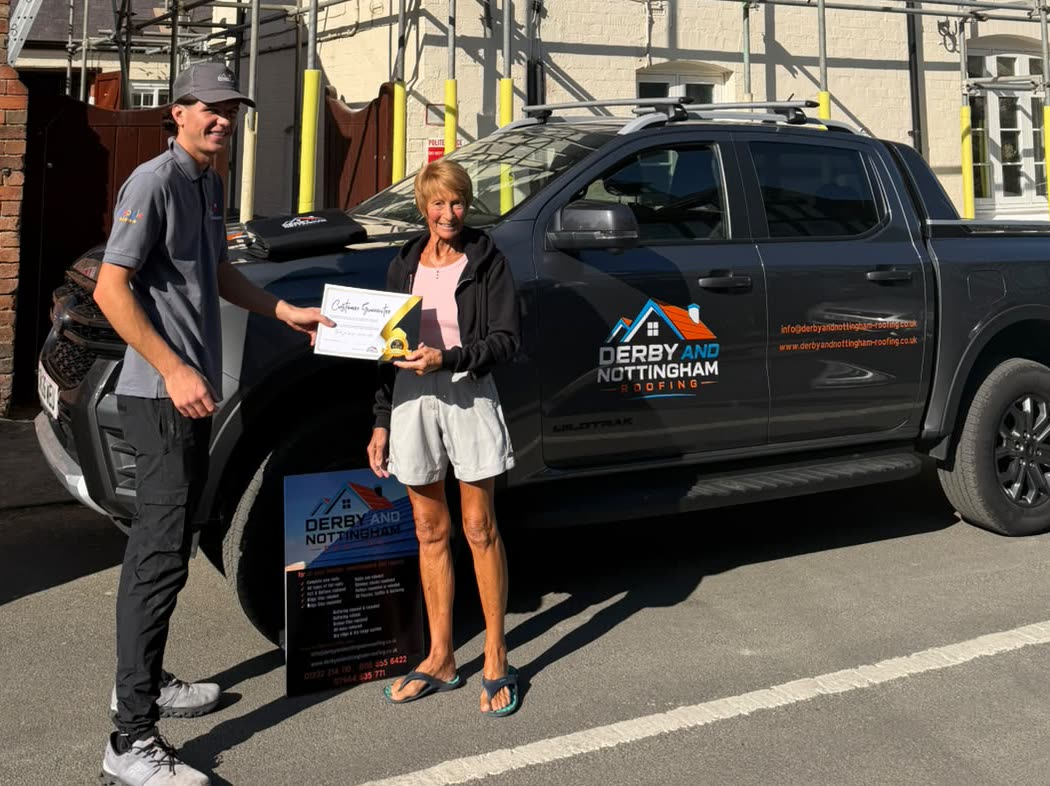
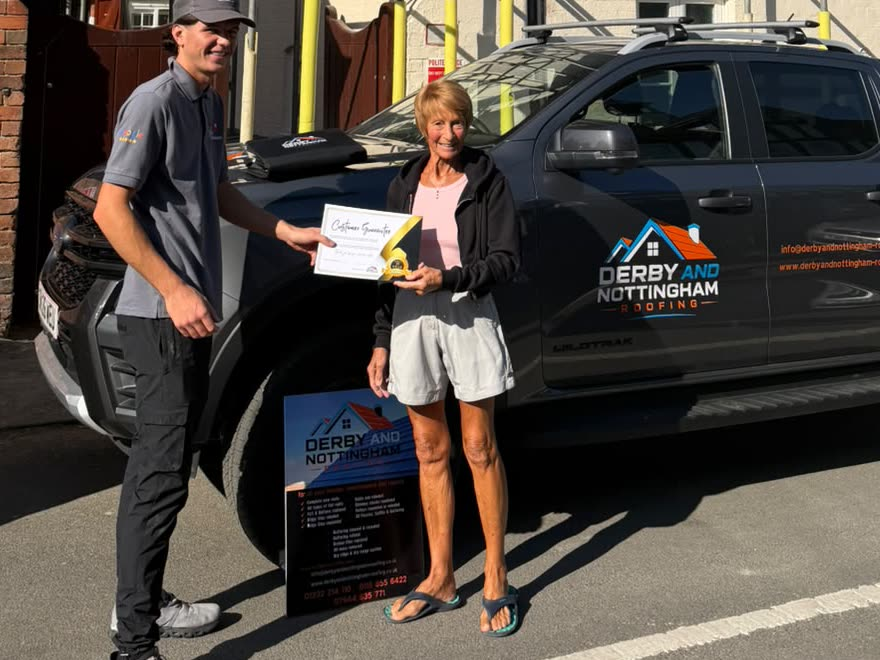
Inset the customer-guarantee photo into the team shot's bottom-right corner
Covers a passing car's number plate that ran to the bottom edge of the team
photo, and adds a second trust image. Flush to the corner rather than floated
so nothing shows beneath it. Re-cropped guarantee-2 tighter on the customer
and certificate so it reads at inset size.

The inset img needs a (0,2,1) selector: .about-photo img sits later in the
stylesheet with min-height:420px and would otherwise win on source order and
crop the inset by a third.

diff --git a/index.html b/index.html
@@ -225,7 +225,7 @@ height="0" width="0" style="display:none;visibility:hidden"></iframe></noscript>
     <div class="center" style="margin-top:24px"><a class="btn btn-dark" href="reviews.html">Read more reviews <svg viewBox="0 0 24 24" fill="none" stroke="currentColor" stroke-width="2.2" stroke-linecap="round" stroke-linejoin="round"><line x1="5" y1="12" x2="19" y2="12"/><polyline points="12 5 19 12 12 19"/></svg></a></div>
   </div></div></section>
 <section class="section about" id="about"><div class="wrap about-grid">
-  <div class="about-photo"><img src="assets/img/team.jpg" alt="The Derby &amp; Nottingham Roofing team on site during a full re-roof" loading="lazy"></div>
+  <div class="about-photo"><img src="assets/img/team.jpg" alt="The Derby &amp; Nottingham Roofing team on site during a full re-roof" loading="lazy"><div class="photo-inset"><img src="assets/img/guarantee-2.jpg" alt="A customer receiving her written workmanship guarantee from Derby &amp; Nottingham Roofing" loading="lazy"></div></div>
   <div class="about-body">
     <span class="eyebrow">Meet the team</span><h2>The roofers behind the work</h2>
     <p>Derby & Nottingham Roofing is a family-run roofing company with over 40 years' experience and a team of 15. We've grown by word of mouth — one happy customer at a time — and we treat every roof like it's our own.</p>

diff --git a/assets/styles.css b/assets/styles.css
@@ -262,7 +262,12 @@ header.nav.solid{background:var(--ink)}
 /* ---------- about ---------- */
 .about{background:var(--paper)}
 .about-grid{display:grid;grid-template-columns:.92fr 1.08fr;gap:48px;align-items:center}
-.about-photo{border-radius:var(--r);overflow:hidden;box-shadow:var(--shadow)}
+.about-photo{position:relative;border-radius:var(--r);overflow:hidden;box-shadow:var(--shadow)}
+/* Second photo tucked into the bottom-right corner of the main one. Sits flush
+   to the corner (not floated) so it fully covers a passing car's number plate
+   that runs to the very bottom edge of the team shot. */
+.photo-inset{position:absolute;right:0;bottom:0;width:45%;aspect-ratio:4/3;overflow:hidden;border-top:4px solid #fff;border-left:4px solid #fff;border-top-left-radius:14px;box-shadow:-6px -6px 18px rgba(0,0,0,.22)}
+.about-photo .photo-inset img{width:100%;height:100%;object-fit:cover;display:block;min-height:0}
 .about-photo img{width:100%;height:100%;object-fit:cover;min-height:420px}
 .about-body h2{font-size:clamp(2rem,4vw,2.9rem);text-transform:uppercase;margin:8px 0 0}
 .about-body p{color:var(--muted);margin:16px 0 0}
